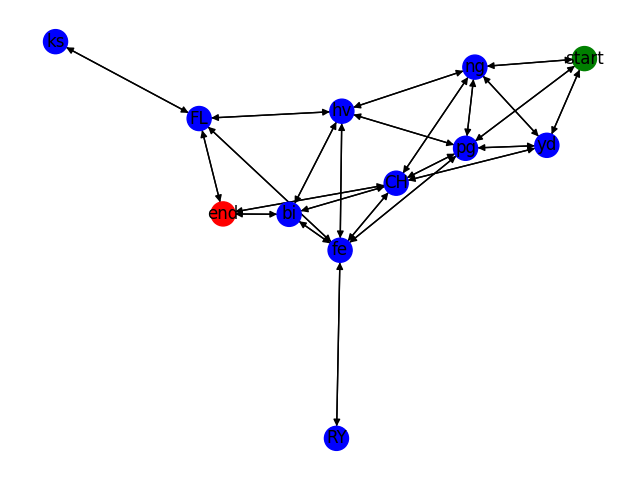
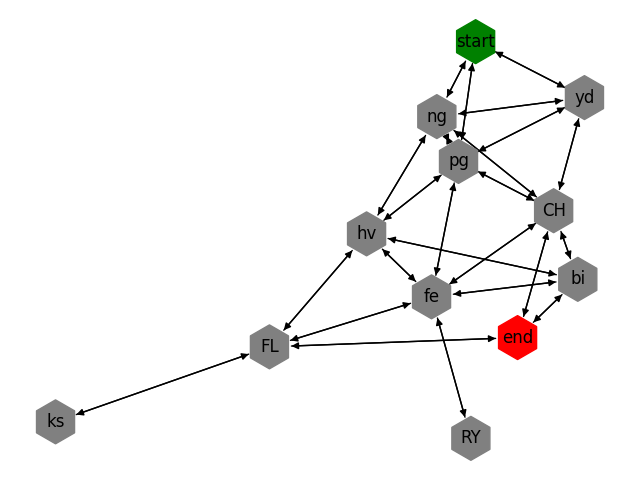
updated day 12 visualization

diff --git a/day12_vis.py b/day12_vis.py
@@ -17,16 +17,16 @@ graph = nx.DiGraph()
 
 for i in neighbours.keys():
     if i == "start":
-        graph.add_node(i, color="green")
+        graph.add_node(i)
     elif i == "end":
-        graph.add_node(i, color="red")
+        graph.add_node(i)
     else:
-        graph.add_node(i, color="blue")
+        graph.add_node(i)
 
 for i in neighbours.keys():
     for j in neighbours[i]:
         graph.add_edge(i, j)
 
-color_map = ['red' if node == 'end' else 'green' if node == 'start' else 'blue' for node in graph]        
-nx.draw(graph, with_labels=True, node_color=color_map)
+color_map = ['red' if node == 'end' else 'green' if node == 'start' else 'grey' for node in graph]
+nx.draw(graph, with_labels=True, node_size=1000, node_color=color_map, node_shape="h")
 plt.savefig("Visualizations/Day12_Visualization.png")
